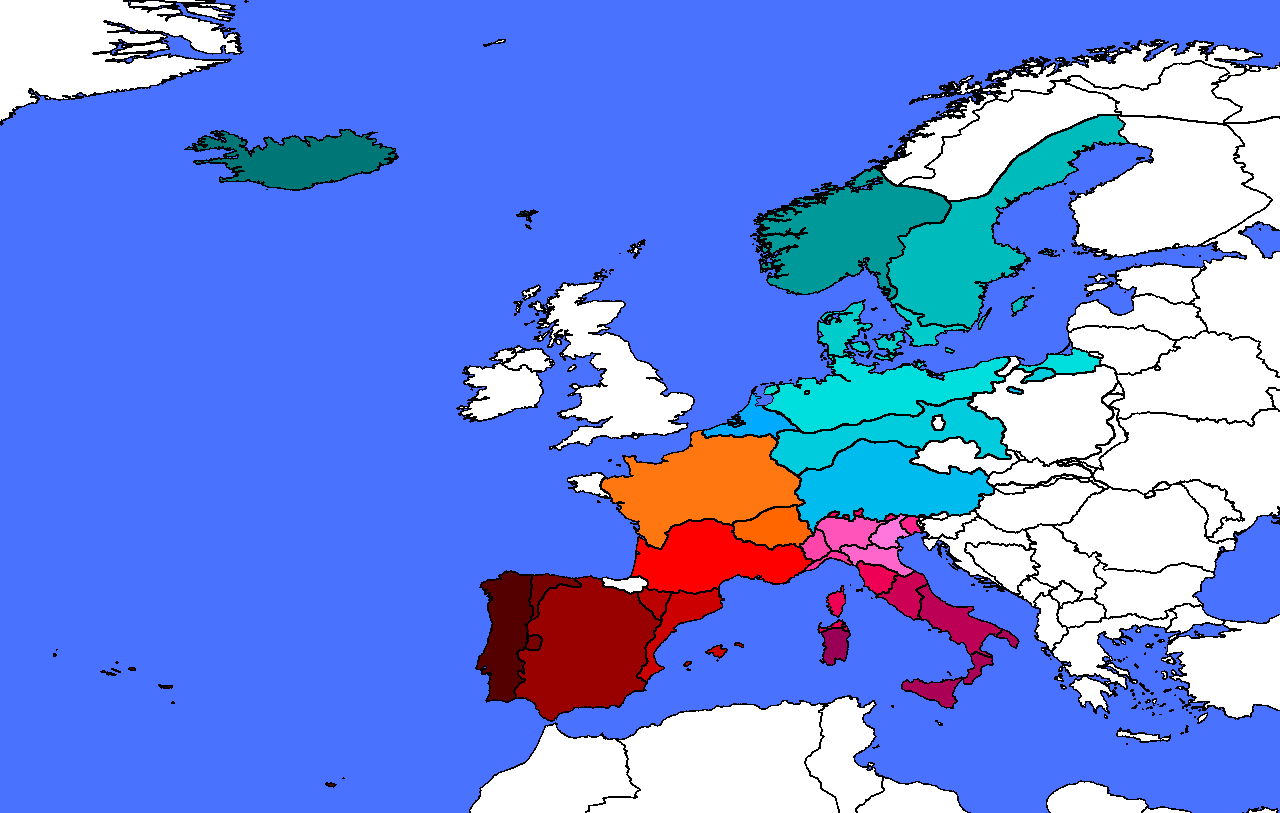
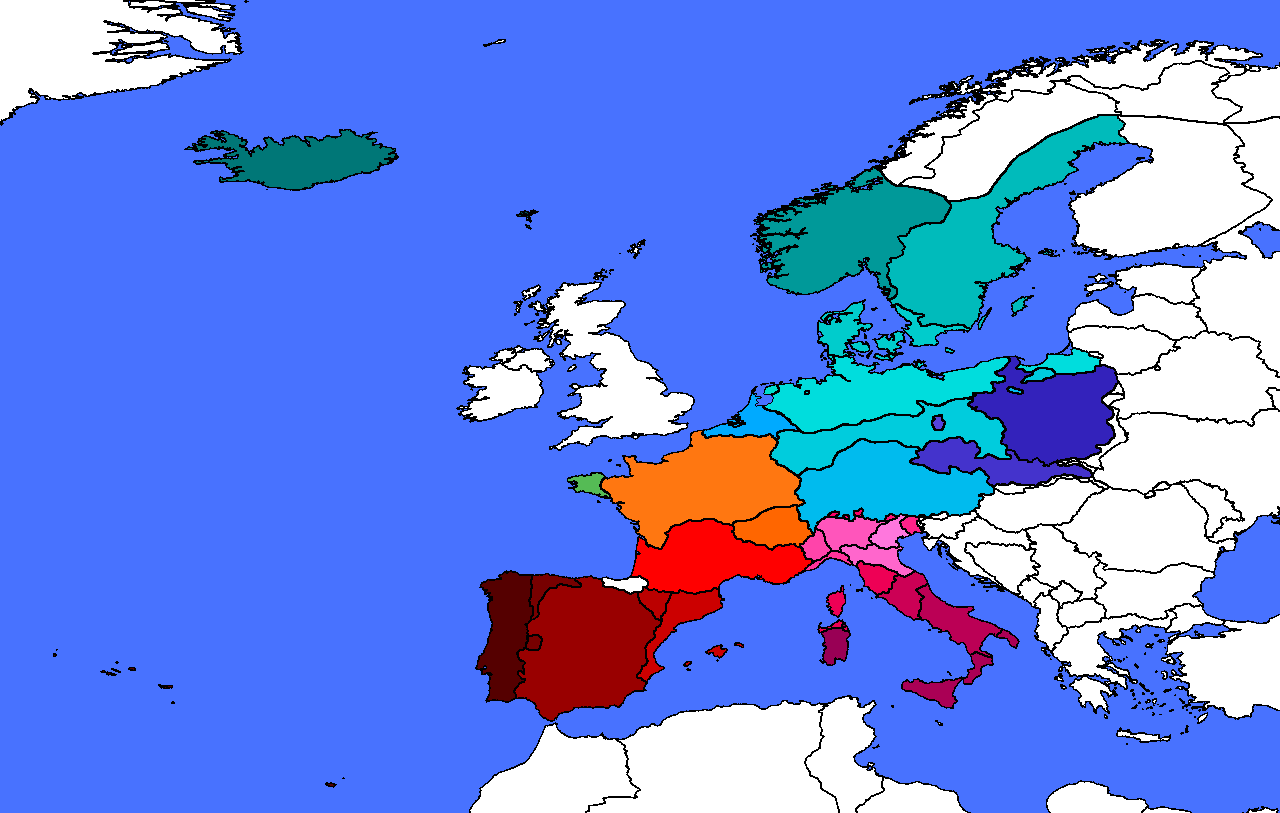
Added more dots + map update

Changed region(s): [[0.7188, 0.4305, 0.875, 0.615], [0.4375, 0.5843, 0.4688, 0.615]]

diff --git a/index.html b/index.html
@@ -17,16 +17,39 @@
   <div class="map-wrapper">
     <img src="images/GLOSS-img.png" alt="Language Map" id="map-img">
     
-    <div class="hover-point" style="top: 76.86%; left: 39.06%; background-color: #550000;" title="Galician-Portuguese"></div>
-    <div class="hover-point" style="top: 71.09%; left: 41.88%; background-color: #770000;" title="Astur-Leonese"></div>
-    <div class="hover-point" style="top: 77.74%; left: 45.00%; background-color: #990000;" title="Castilian"></div>
-    <div class="hover-point" style="top: 73.33%; left: 50.63%; background-color: #bb0000;" title="Aragonese"></div>
-    <div class="hover-point" style="top: 74.91%; left: 53.05%; background-color: #cc0000;" title="Catalan"></div>
-    <div class="hover-point" style="top: 67.27%; left: 54.45%; background-color: #ff1111;" title="Occitan"></div>
-    <div class="hover-point" style="top: 64.23%; left: 60.08%; background-color: #ff6600;" title="Arpitan"></div>
-    <div class="hover-point" style="top: 57.45%; left: 54.14%; background-color: #ff7711;" title="Oïl"></div>
-    <div class="hover-point" style="top: 66.66%; left: 63.28%; background-color: #ff44aa;" title="Piedmontese"></div>
-    <div class="hover-point" style="top: 68.89%; left: 64.61%; background-color: #ff3399;" title="Ligurian"></div>
+    <div class="dot" style="left:523px; top:214px; background:#005555" title="Faroese"></div>
+    <div class="dot" style="left:302px; top:159px; background:#007777" title="Icelandic"></div>
+    <div class="dot" style="left:848px; top:232px; background:#009999" title="Norwegian"></div>
+    <div class="dot" style="left:981px; top:232px; background:#00bbbb" title="Swedish"></div>
+    <div class="dot" style="left:874px; top:331px; background:#00cccc" title="Danish"></div>
+    <div class="dot" style="left:893px; top:389px; background:#00dddd" title="Low Saxon"></div>
+    <div class="dot" style="left:895px; top:433px; background:#00ccdd" title="Central German"></div>
+    <div class="dot" style="left:886px; top:485px; background:#00bbee" title="Upper German"></div>
+    <div class="dot" style="left:753px; top:422px; background:#00ddcc" title="Low Frankish"></div>
+    <div class="dot" style="left:776px; top:386px; background:#00eebb" title="Frisian"></div>
+    <div class="dot" style="left:1051px; top:413px; background:#3322bb" title="Polish-Kashubian"></div>
+    <div class="dot" style="left:990px; top:463px; background:#4433cc" title="Czech-Slovak"></div>
+    <div class="dot" style="left:937px; top:422px; background:#5544dd" title="Sorbian"></div>
+    <div class="dot" style="left:504px; top:633px; background:#550000" title="Galician-Portuguese"></div>
+    <div class="dot" style="left:543px; top:597px; background:#770000" title="Astur-Leonese"></div>
+    <div class="dot" style="left:585px; top:648px; background:#990000" title="Castilian"></div>
+    <div class="dot" style="left:654px; top:600px; background:#bb0000" title="Aragonese"></div>
+    <div class="dot" style="left:681px; top:621px; background:#cc0000" title="Catalan"></div>
+    <div class="dot" style="left:589px; top:483px; background:#55bb55" title="Breton"></div>
+    <div class="dot" style="left:703px; top:484px; background:#ff7711" title="Oïl"></div>
+    <div class="dot" style="left:773px; top:527px; background:#ff6600" title="Arpitan"></div>
+    <div class="dot" style="left:815px; top:546px; background:#ff44aa" title="Piedmontese"></div>
+    <div class="dot" style="left:829px; top:559px; background:#ff3399" title="Ligurian"></div>
+    <div class="dot" style="left:847px; top:531px; background:#ff55bb" title="Lombard"></div>
+    <div class="dot" style="left:888px; top:533px; background:#ff77dd" title="Venetian"></div>
+    <div class="dot" style="left:889px; top:517px; background:#ff1177" title="Ladin"></div>
+    <div class="dot" style="left:910px; top:524px; background:#ff2288" title="Friulian"></div>
+    <div class="dot" style="left:863px; top:586px; background:#cc0055" title="Tuscan-Corsican"></div>
+    <div class="dot" style="left:906px; top:593px; background:#cc0055" title="Central Italian"></div>
+    <div class="dot" style="left:876px; top:557px; background:#ff66cc" title="Emilian-Romagnol"></div>
+    <div class="dot" style="left:834px; top:644px; background:#990055" title="Sardinian"></div>
+    <div class="dot" style="left:955px; top:679px; background:#aa0055" title="Sicilian"></div>
+    <div class="dot" style="left:955px; top:621px; background:#bb0055" title="Neapolitan"></div>
 
   </div>
 </body>
